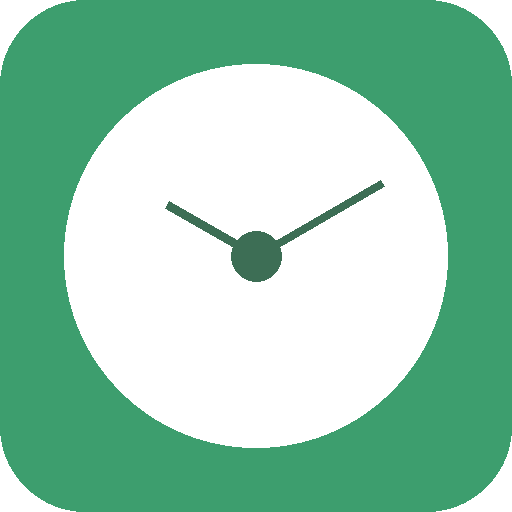
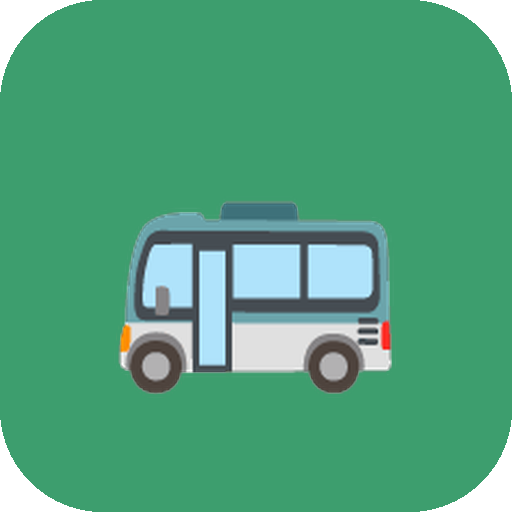
Add files via upload

diff --git a/index.html b/index.html
@@ -38,7 +38,7 @@
     margin-bottom: 12px;
   }
   .header-label {
-    font-size: 11px;
+    font-size: 13px;
     color: #5a8f78;
     font-weight: 700;
     letter-spacing: 0.12em;